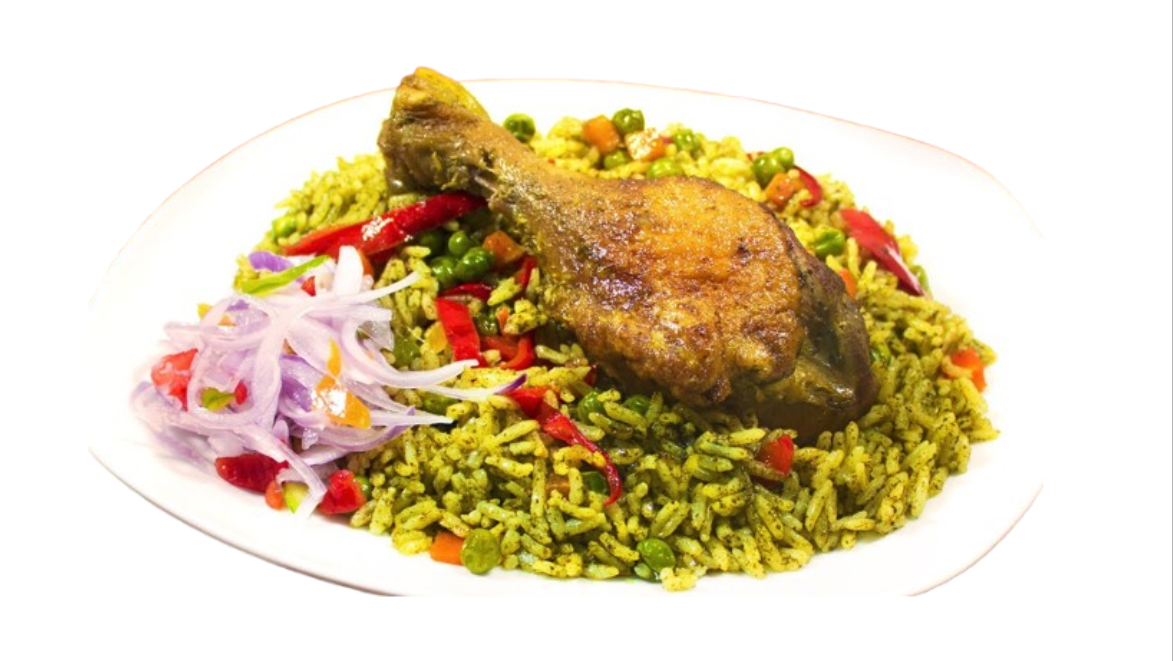
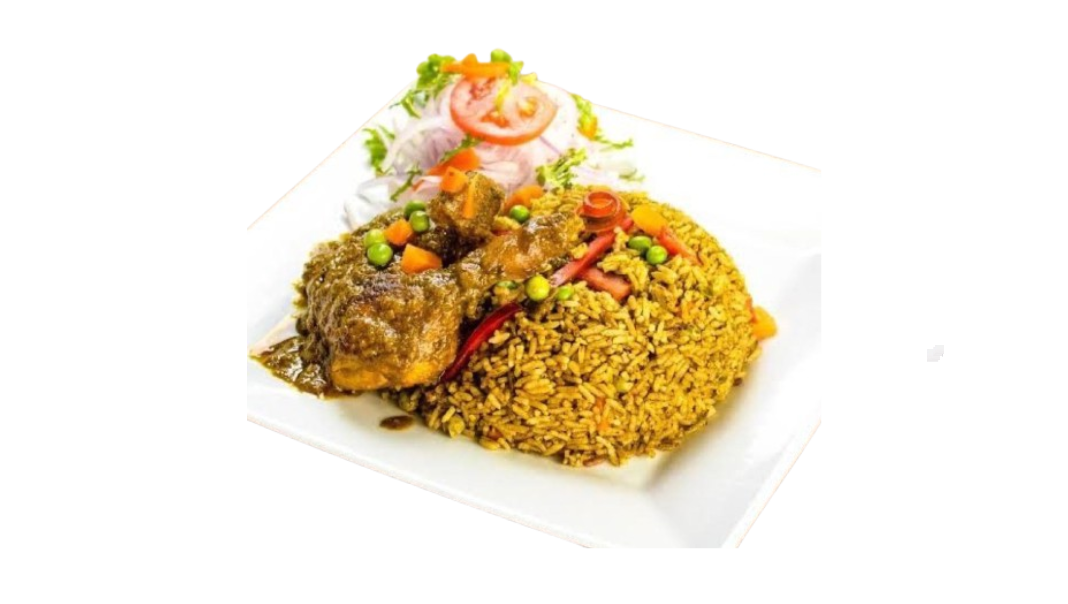
Agrega nuevos platos al menú: Anticuchos, Arroz con Mariscos y Arroz Chaufa; actualiza el formato del precio en la función de renderizado

diff --git a/scripts/products.js b/scripts/products.js
@@ -147,6 +147,15 @@ const products = [
         image: "./images/menu/platanos-fritos.jpg",
         available: true
     },
+    {
+        id: 2,
+        name: "Peruvian Anticuchos",
+        category: "appetizers",
+        price: 12.50,
+        description: "Authentic Peruvian-style grilled beef heart skewers, marinated in our signature spices and flame-grilled to perfection. Served with potatoes and Peruvian corn. A true taste of Peru.",
+        image: "./images/menu/anticuchos.jpg",
+        available: true
+    },
 
     // --- SEAFOOD ---
     {
@@ -219,6 +228,15 @@ const products = [
         price: 30.00,
         description: "Peruvian causa topped with fresh ceviche.",
         image: "./images/menu/causa-acevichada.jpg",
+        available: true
+    },
+    {
+        id: 1,
+        name: "Arroz con Mariscos",
+        category: "seafood",
+        price: 31.25,
+        description: "Peruvian seafood paella.",
+        image: "./images/menu/arroz-con-mariscos.jpg",
         available: true
     },
 
@@ -329,6 +347,15 @@ const products = [
         price: 25.00,
         description: "Creamy huancaína pasta served with lomo steak.",
         image: "./images/menu/tallarin-a-la-huancaina-con-lomo.jpg",
+        available: true
+    },
+    {
+        id: 3,
+        name: "Arroz Chaufa",
+        category: "peruvian-classics",
+        price: 26.04,
+        description: "Peruvian fried rice.",
+        image: "./images/menu/chaufa-pollo.jpg",
         available: true
     },
 
@@ -629,7 +656,7 @@ function renderProducts(category = 'peruvian-breakfast') {
             <div class="item-info">
                 <h3>${product.name}</h3>
                 <p class="description">${product.description}</p>
-                <span class="price">S/ ${product.price.toFixed(2)}</span>
+                <span class="price">$ ${product.price.toFixed(2)}</span>
                 ${product.available ? `
                 <div class="item-actions">
                     <div class="quantity-control">